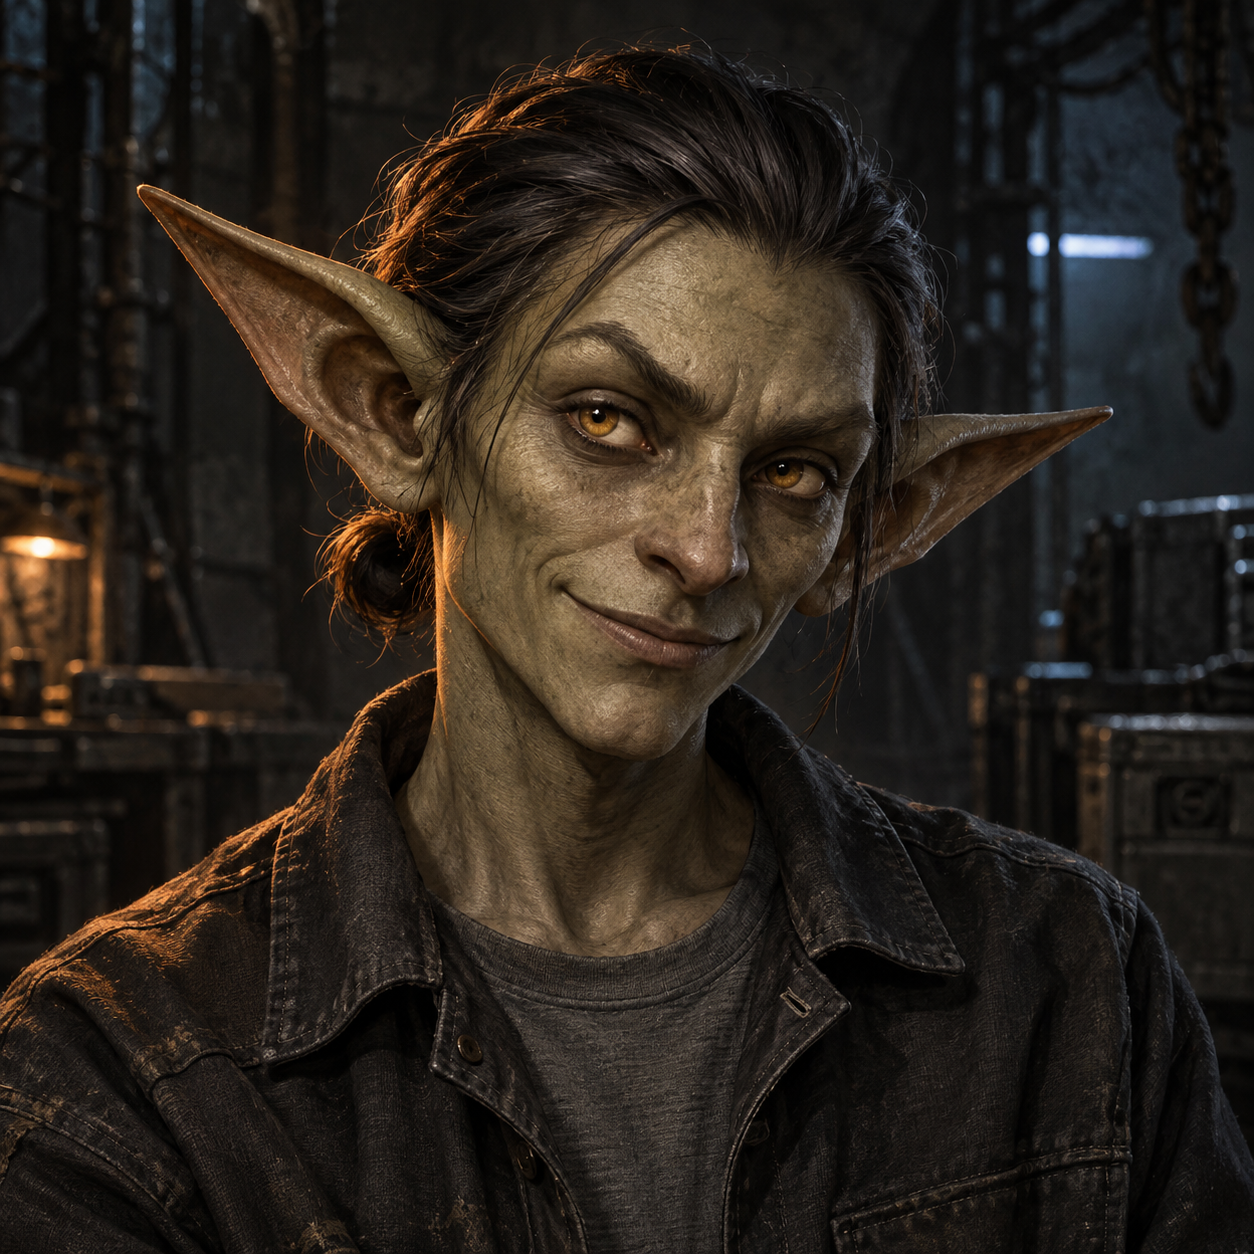
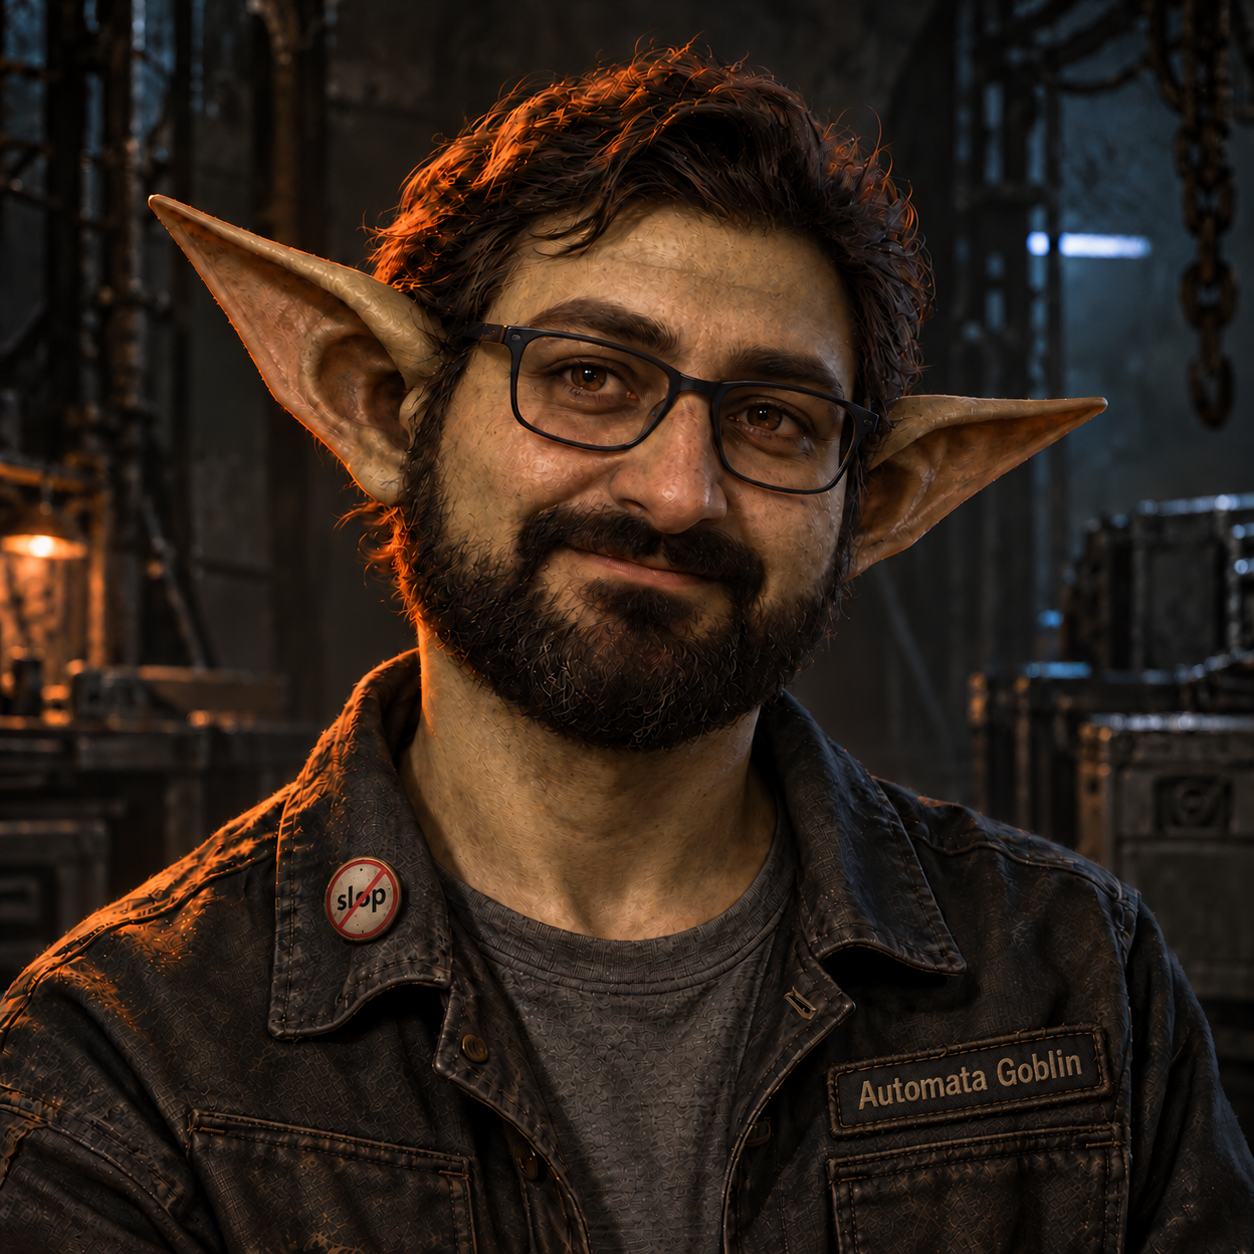
feat: deanonymize Nijat A

diff --git a/content/friends/nijat-a/index.md b/content/friends/nijat-a/index.md
@@ -1,5 +1,5 @@
 ---
-title: "Nijat A."
+title: "Nijat Aliyev"
 portrait: "portrait.png"
 links:
   - label: "HackNation 2025"

diff --git a/content/kronika/2025-hacknation/index.md b/content/kronika/2025-hacknation/index.md
@@ -33,4 +33,4 @@ Skład zespołu:
 - Janek Baumgart
 - Jakub Zięba
 - Jakub Skory
-- Nijat A.
+- Nijat Aliyev
